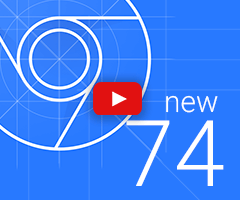
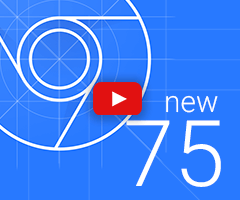
DevTools: Update What's New for Chrome 75
Bug: 953814
Commit-Queue: Kayce Basques <kayce@google.com>
Auto-Submit: Kayce Basques <kayce@google.com>
Cr-Commit-Position: refs/heads/master@{#651961}

Changed region(s): [[0.7292, 0.6, 0.9333, 0.96]]

diff --git a/renderer/devtools/front_end/help/ReleaseNoteText.js b/renderer/devtools/front_end/help/ReleaseNoteText.js
@@ -13,6 +13,41 @@ const commandMenuShortcut = Host.isMac() ? 'Command + Shift + P' : 'Control + Sh
 /** @type {!Array<!Help.ReleaseNote>} */
 Help.releaseNoteText = [
   {
+    version: 17,
+    header: 'Highlights from the Chrome 75 update',
+    highlights: [
+      {
+        title: 'Meaningful preset values when autocompleting CSS functions',
+        subtitle:
+            'Properties like "filter" that take functions for values now autocomplete to previewable values in the Styles pane.',
+        link: 'https://developers.google.com/web/updates/2019/04/devtools#presets',
+      },
+      {
+        title: 'Clear site data from the Command Menu',
+        subtitle:
+            `Press ${commandMenuShortcut} and run the "Clear Site Data" command to clear cookies, storage, and more.`,
+        link: 'https://developers.google.com/web/updates/2019/04/devtools#clear',
+      },
+      {
+        title: 'View all IndexedDB databases',
+        subtitle: 'The IndexedDB pane now shows databases for all origins rather than just the main origin.',
+        link: 'https://developers.google.com/web/updates/2019/04/devtools#indexeddb',
+      },
+      {
+        title: 'View a resource\'s uncompressed size on hover',
+        subtitle: 'Hover over the Size column in the Network panel to view a resource\'s full size.',
+        link: 'https://developers.google.com/web/updates/2019/04/devtools#uncompressed',
+      },
+      {
+        title: 'Inline breakpoints in the Breakpoints pane',
+        subtitle:
+            'When you\'ve got multiple breakpoints on a single line of code, the Breakpoints pane now lets you manage each one independently.',
+        link: 'https://developers.google.com/web/updates/2019/04/devtools#inline',
+      },
+    ],
+    link: 'https://developers.google.com/web/updates/2019/04/devtools',
+  },
+  {
     version: 16,
     header: 'Highlights from the Chrome 74 update',
     highlights: [
